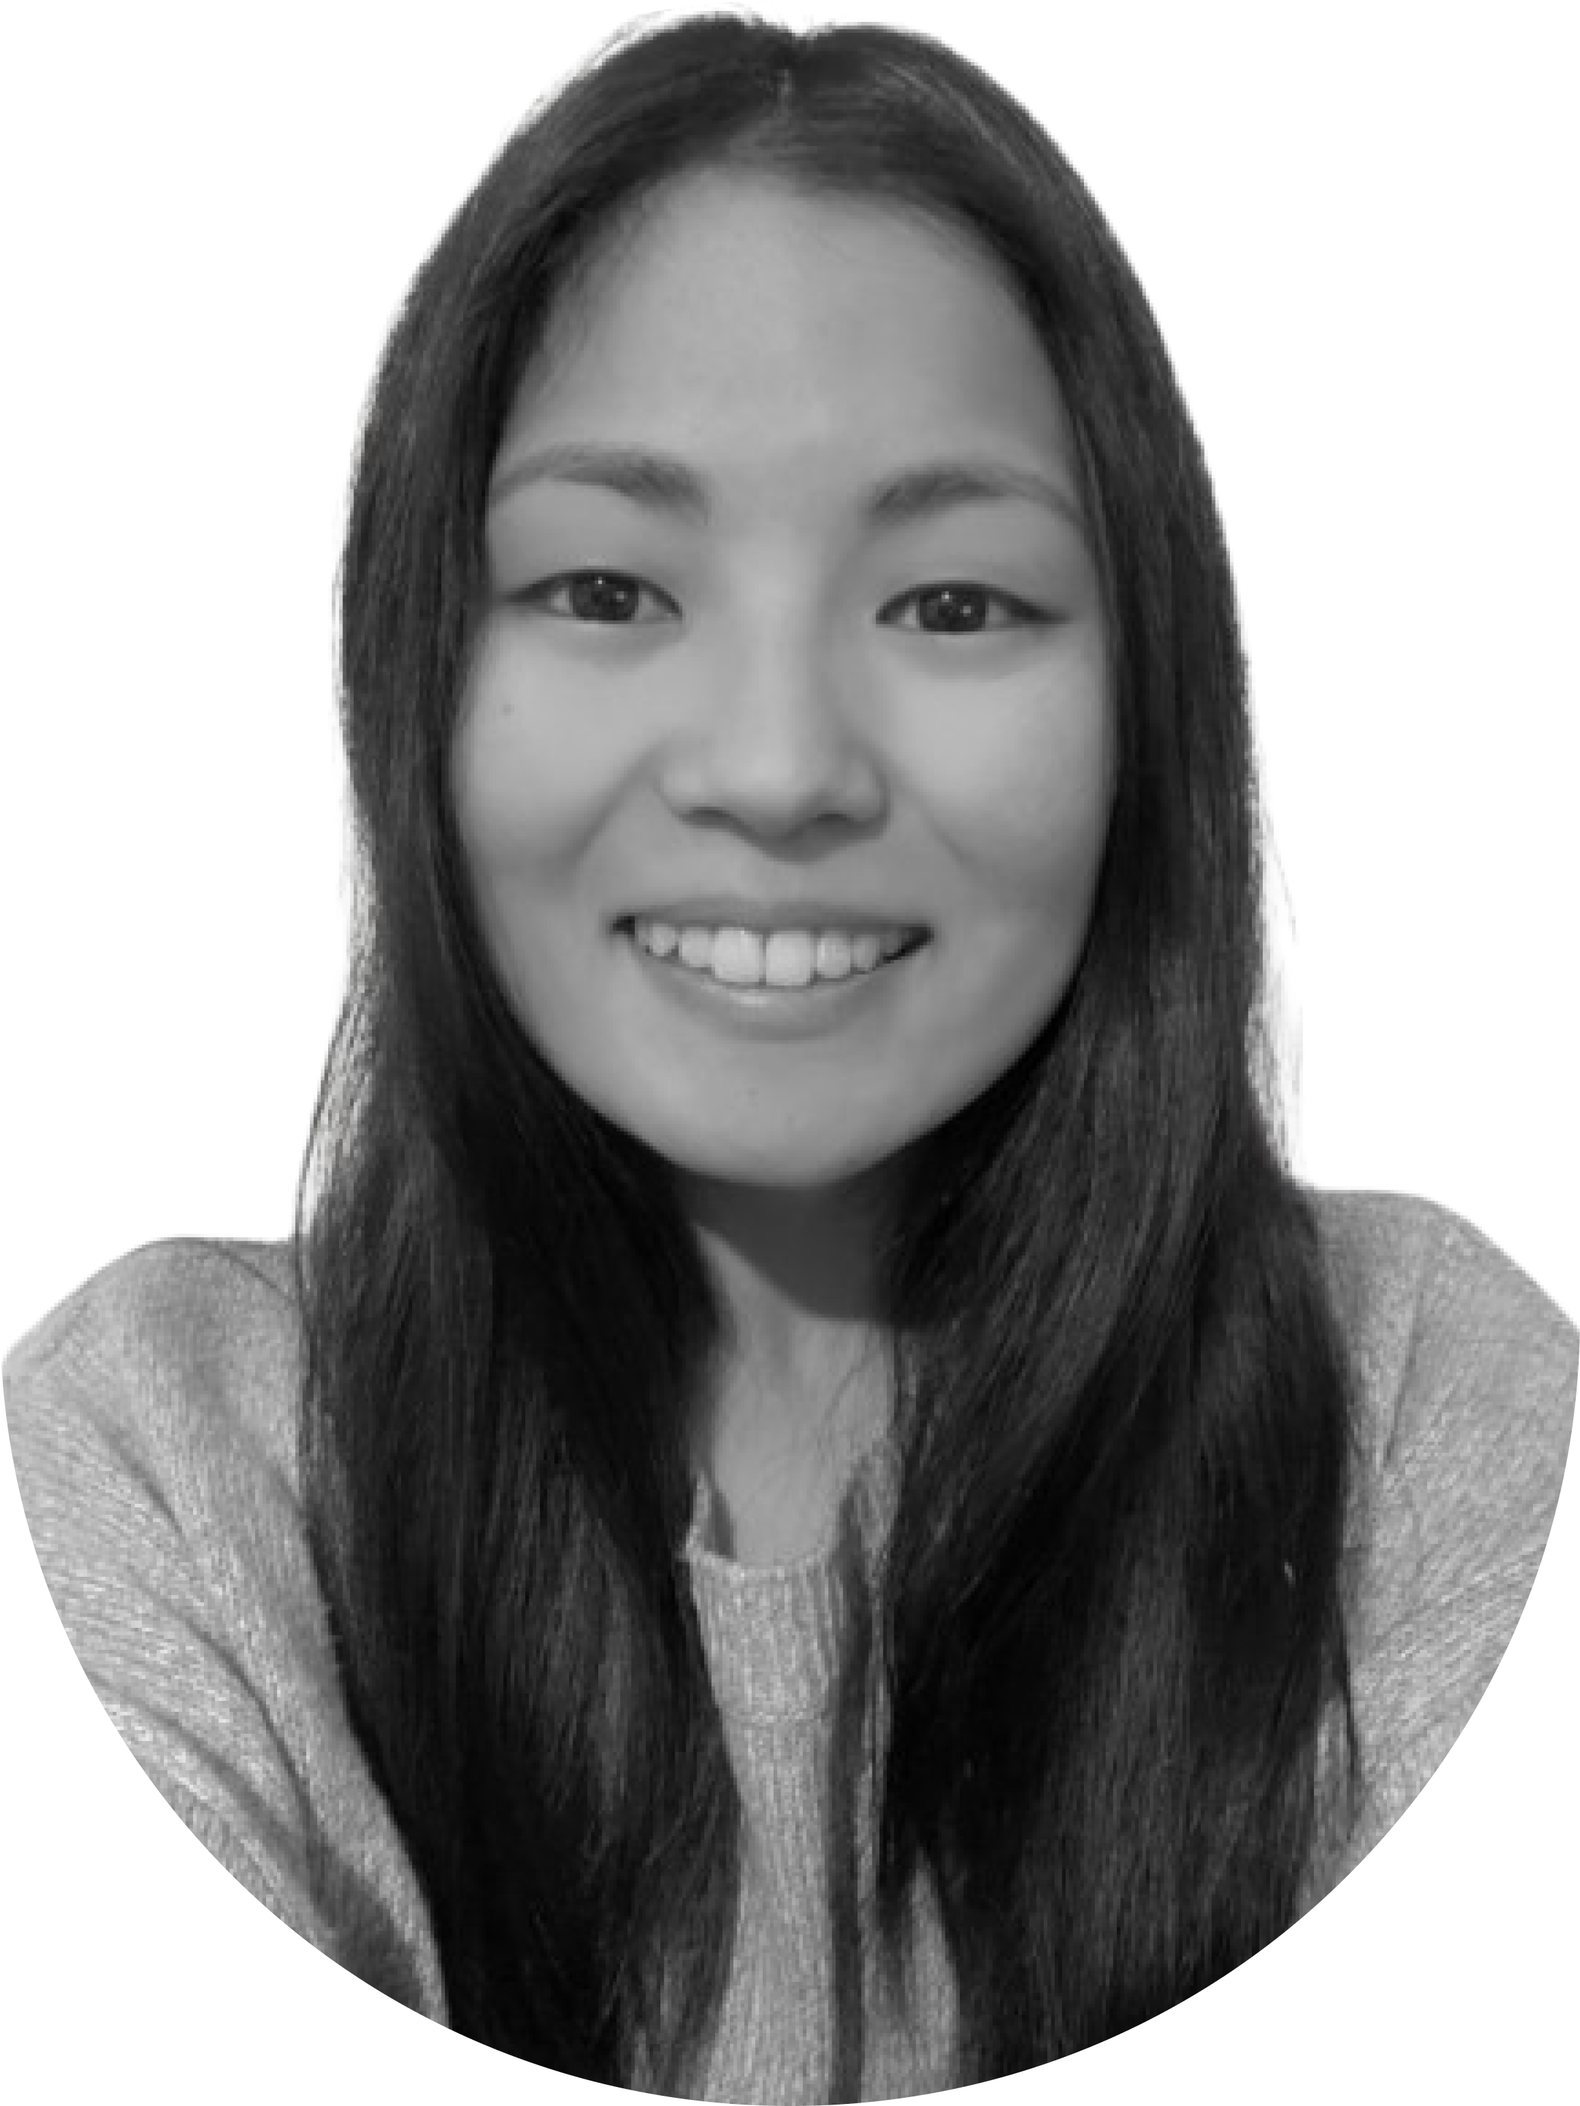
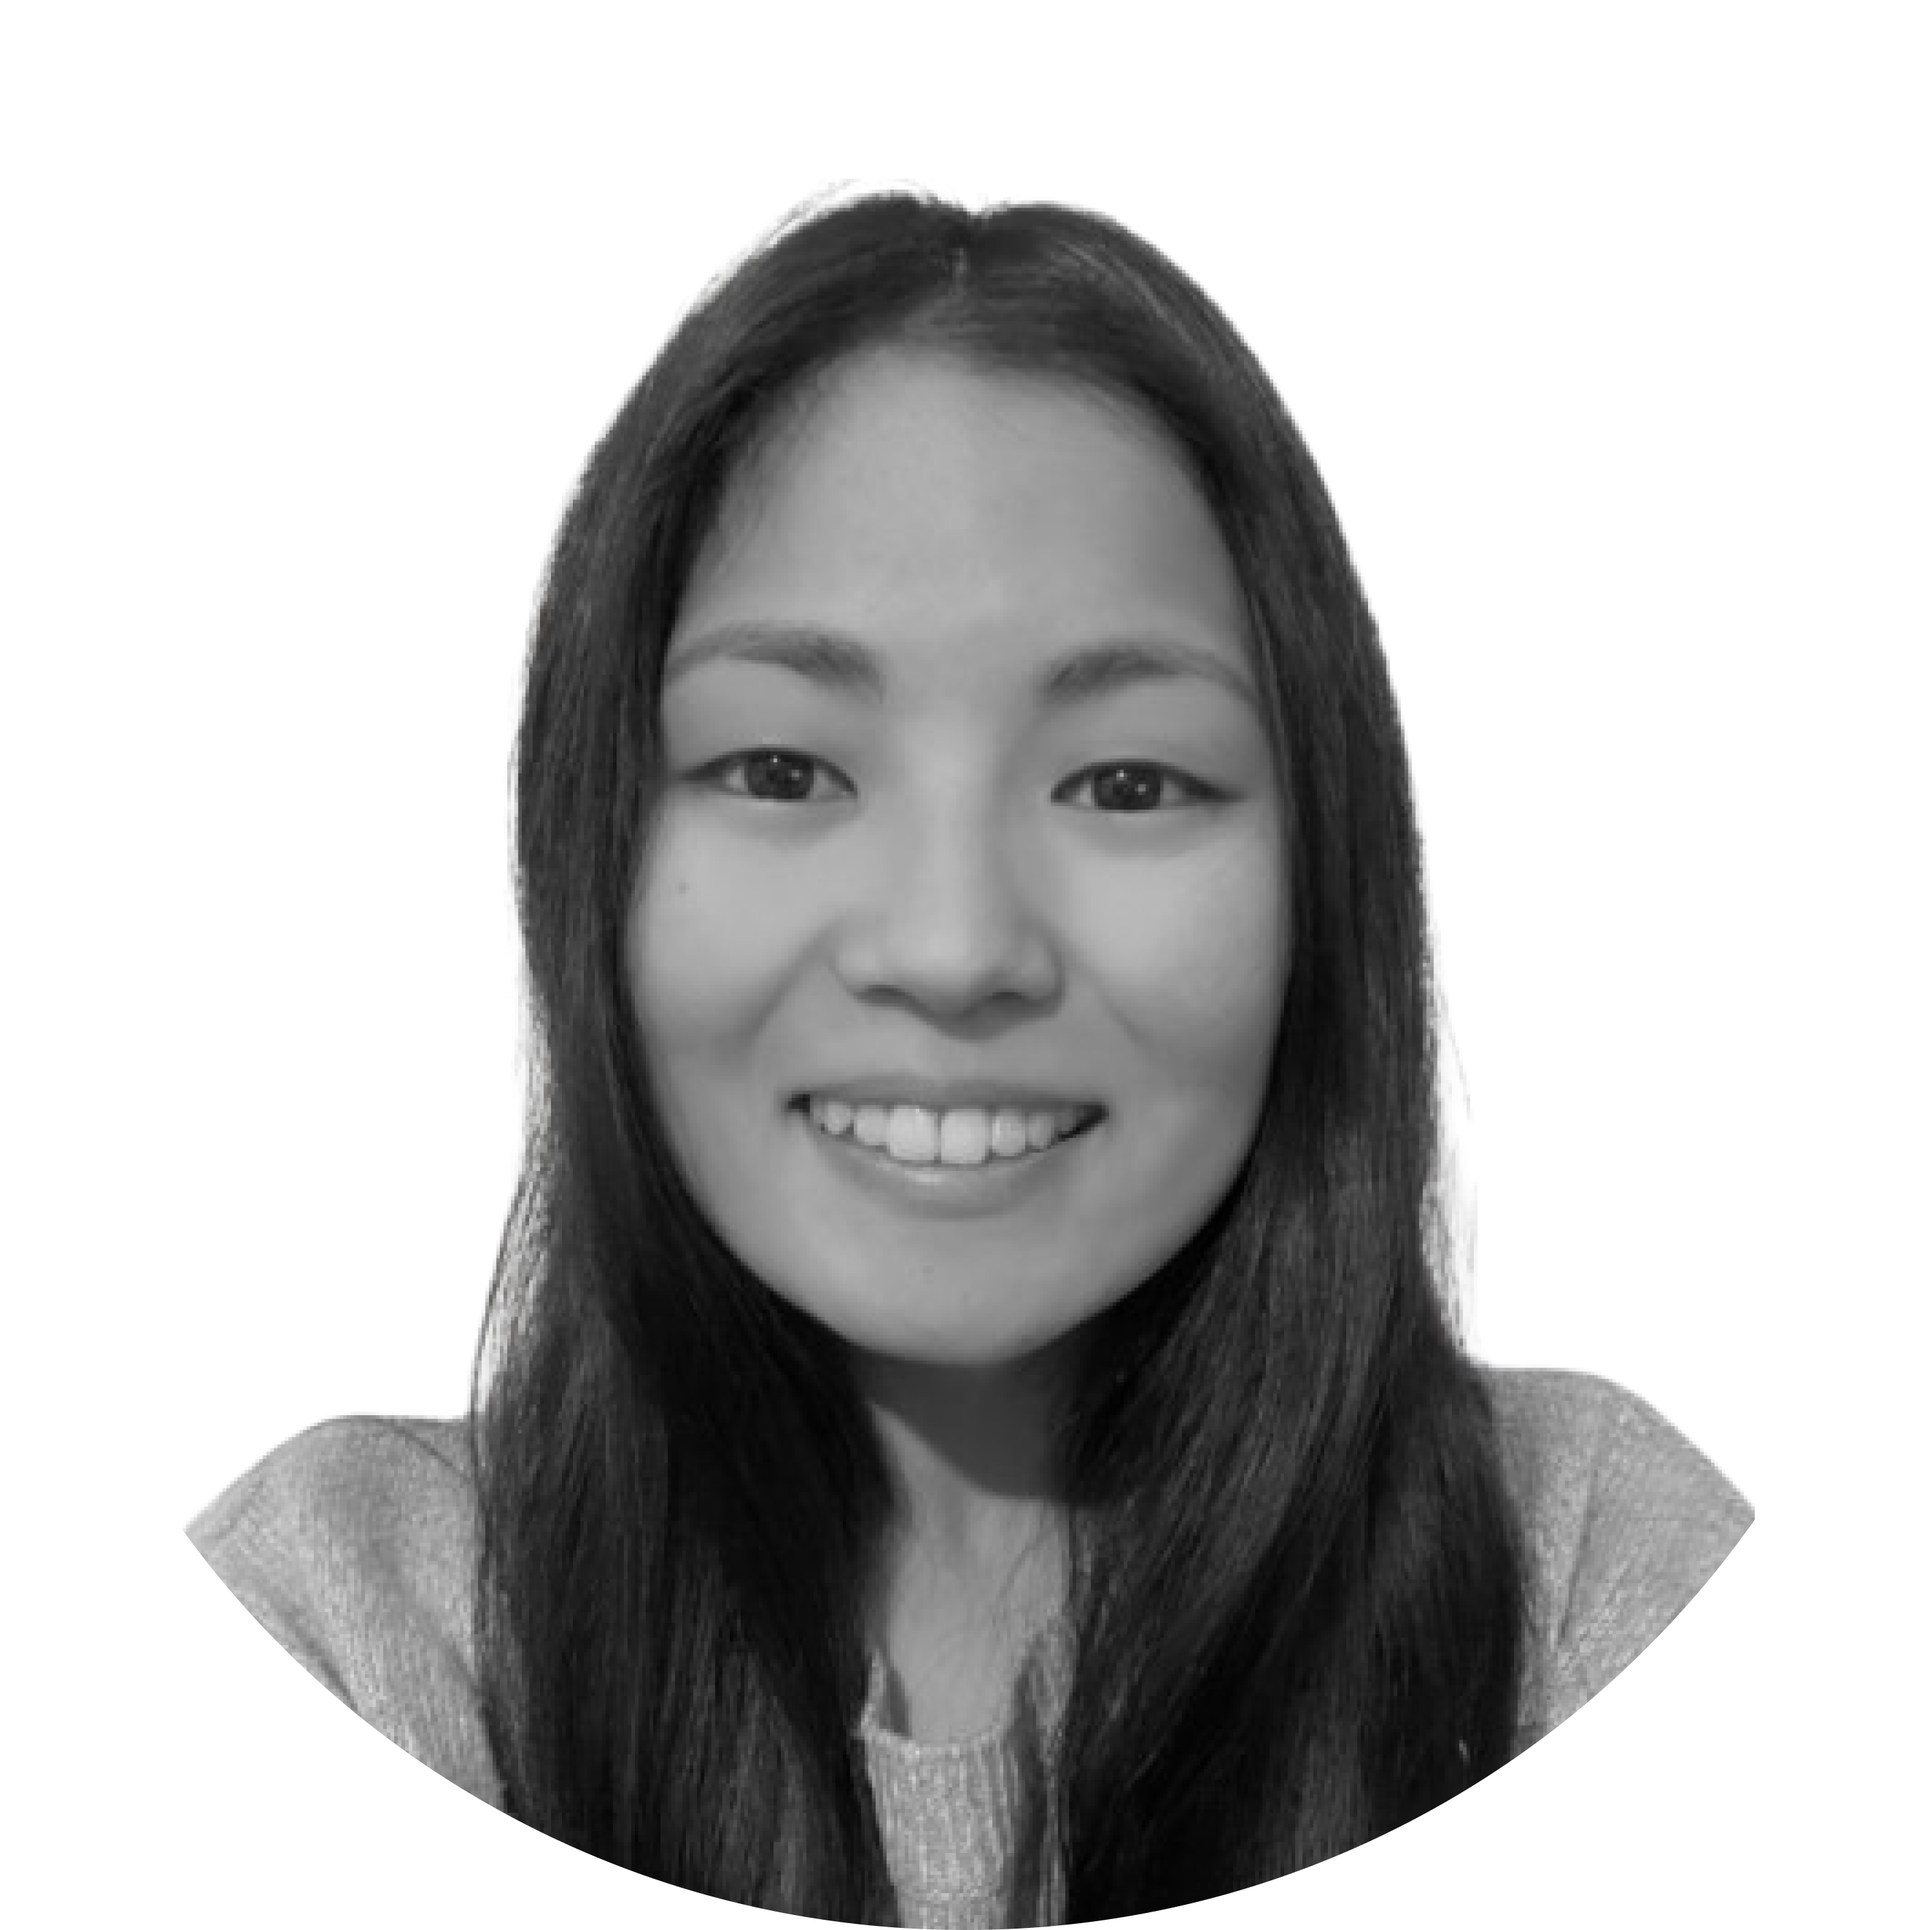
feat(home): add stats section and photo animation
Implemented animation for the photo to enhance user interaction and visual appeal. Added the stats section for the homepage, including data display and layout adjustments.

diff --git a/src/components/Stats.jsx b/src/components/Stats.jsx
@@ -1,0 +1,55 @@
+"use client";
+
+import CountUp from "react-countup";
+
+const stats = [
+  {
+    num: 12,
+    text: "Years of experience",
+  },
+  {
+    num: 26,
+    text: "Projects completed",
+  },
+  {
+    num: 8,
+    text: "Technologies mastered",
+  },
+  {
+    num: 500,
+    text: "Code commits",
+  },
+];
+
+const Stats = () => {
+  return (
+    <section className="pt-5 pb-12 xl:pt-0 xl:pb-0">
+      <div className="container mx-auto">
+        <div className="flex flex-wrap gap-6 max-w-[80vw] mx-auto xl:max-w-none">
+          {stats.map((item, index) => (
+            <div
+              key={index}
+              className="flex items-center justify-center flex-1 gap-4 xl:justify-start"
+            >
+              <CountUp
+                end={item.num}
+                duration={5}
+                delay={2}
+                className="text-4xl font-extrabold xl:text-6xl"
+              />
+              <p
+                className={`${
+                  item.text.length < 15 ? "max-w-[100px]" : "max-w-[150px]"
+                } leading-snug text-white/80`}
+              >
+                {item.text}
+              </p>
+            </div>
+          ))}
+        </div>
+      </div>
+    </section>
+  );
+};
+
+export default Stats;

diff --git a/src/components/Photo.jsx b/src/components/Photo.jsx
@@ -26,7 +26,7 @@ const Photo = () => {
           />
         </motion.div>
         <motion.svg
-          className="w-[300px] xl:w-[506px] h-[300px] xl:h-[506px]"
+          className="z-100w-[300px] xl:w-[506px] h-[300px] xl:h-[506px]"
           fill="transparent"
           viewBox="0 0 506 506"
           xmlns="http://www.w3.org/2000/svg"
@@ -35,7 +35,7 @@ const Photo = () => {
             cx="253"
             cy="253"
             r="250"
-            stroke="#00ff999"
+            stroke="#00ff99"
             strokeWidth="4"
             strokeLinecap="round"
             strokeLinejoin="round"
@@ -45,9 +45,9 @@ const Photo = () => {
               rotate: [120, 360],
             }}
             transition={{
-              duration:20,
+              duration: 20,
               repeat: Infinity,
-              repeatType: "reverse"
+              repeatType: "reverse",
             }}
           />
         </motion.svg>

diff --git a/src/app/page.js b/src/app/page.js
@@ -1,6 +1,7 @@
 import { Button } from "@/components/ui/button";
 import { FiDownload } from "react-icons/fi";
 
+import Stats from "@/components/Stats";
 import Photo from "@/components/Photo";
 import Social from "@/components/Social";
 
@@ -38,6 +39,7 @@ const Home = () => {
           </div>
         </div>
       </div>
+      <Stats />
     </section>
   );
 };
